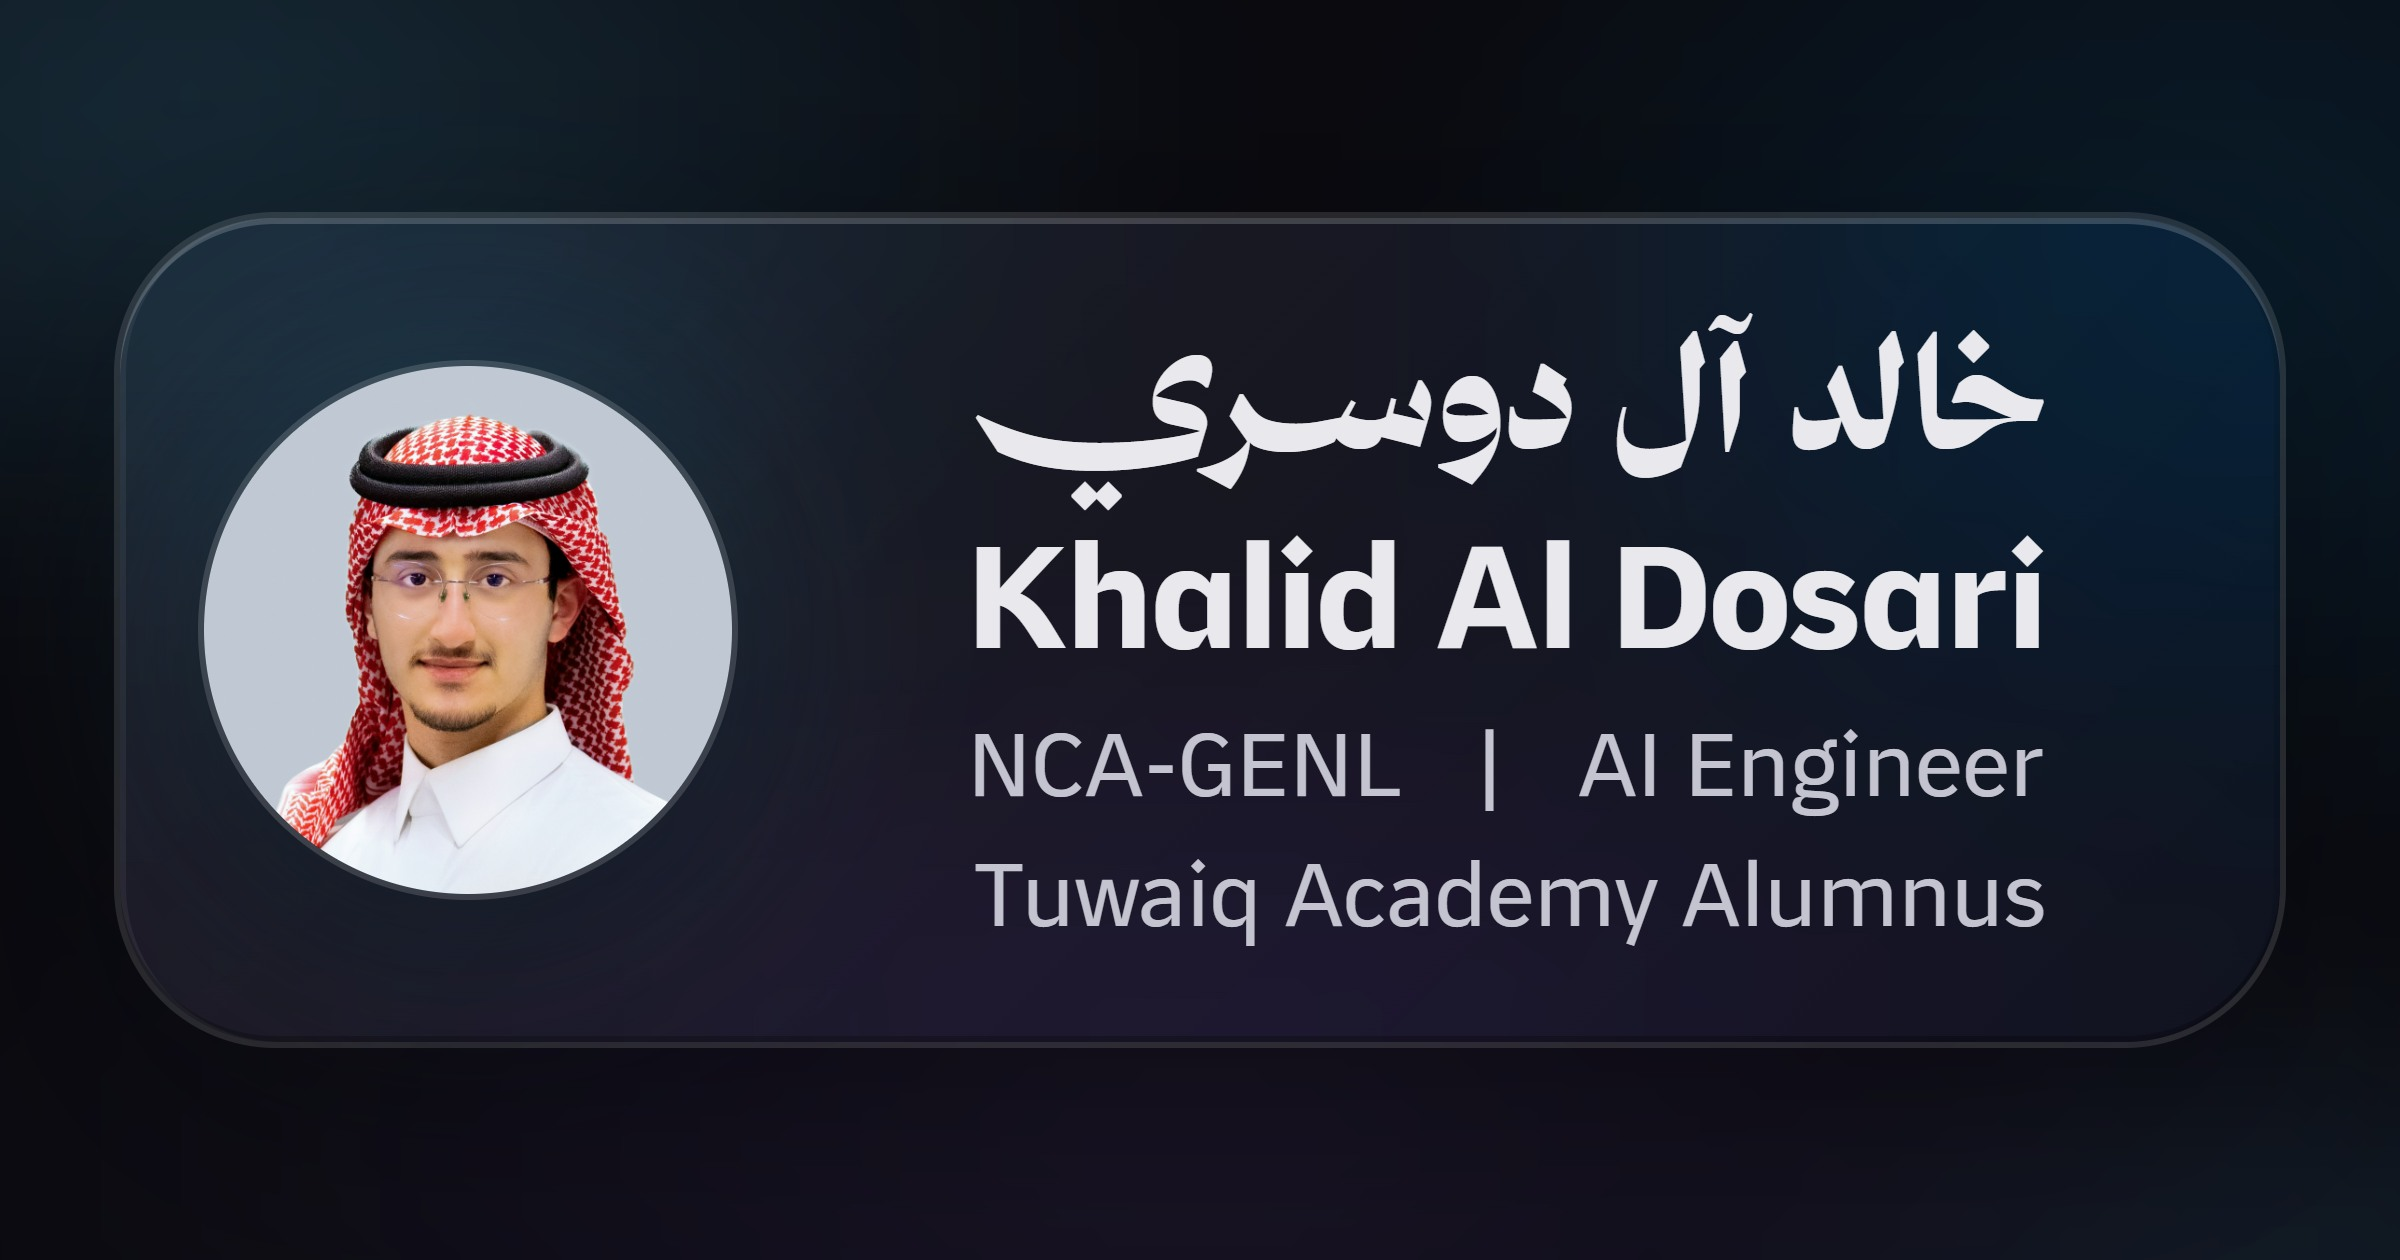
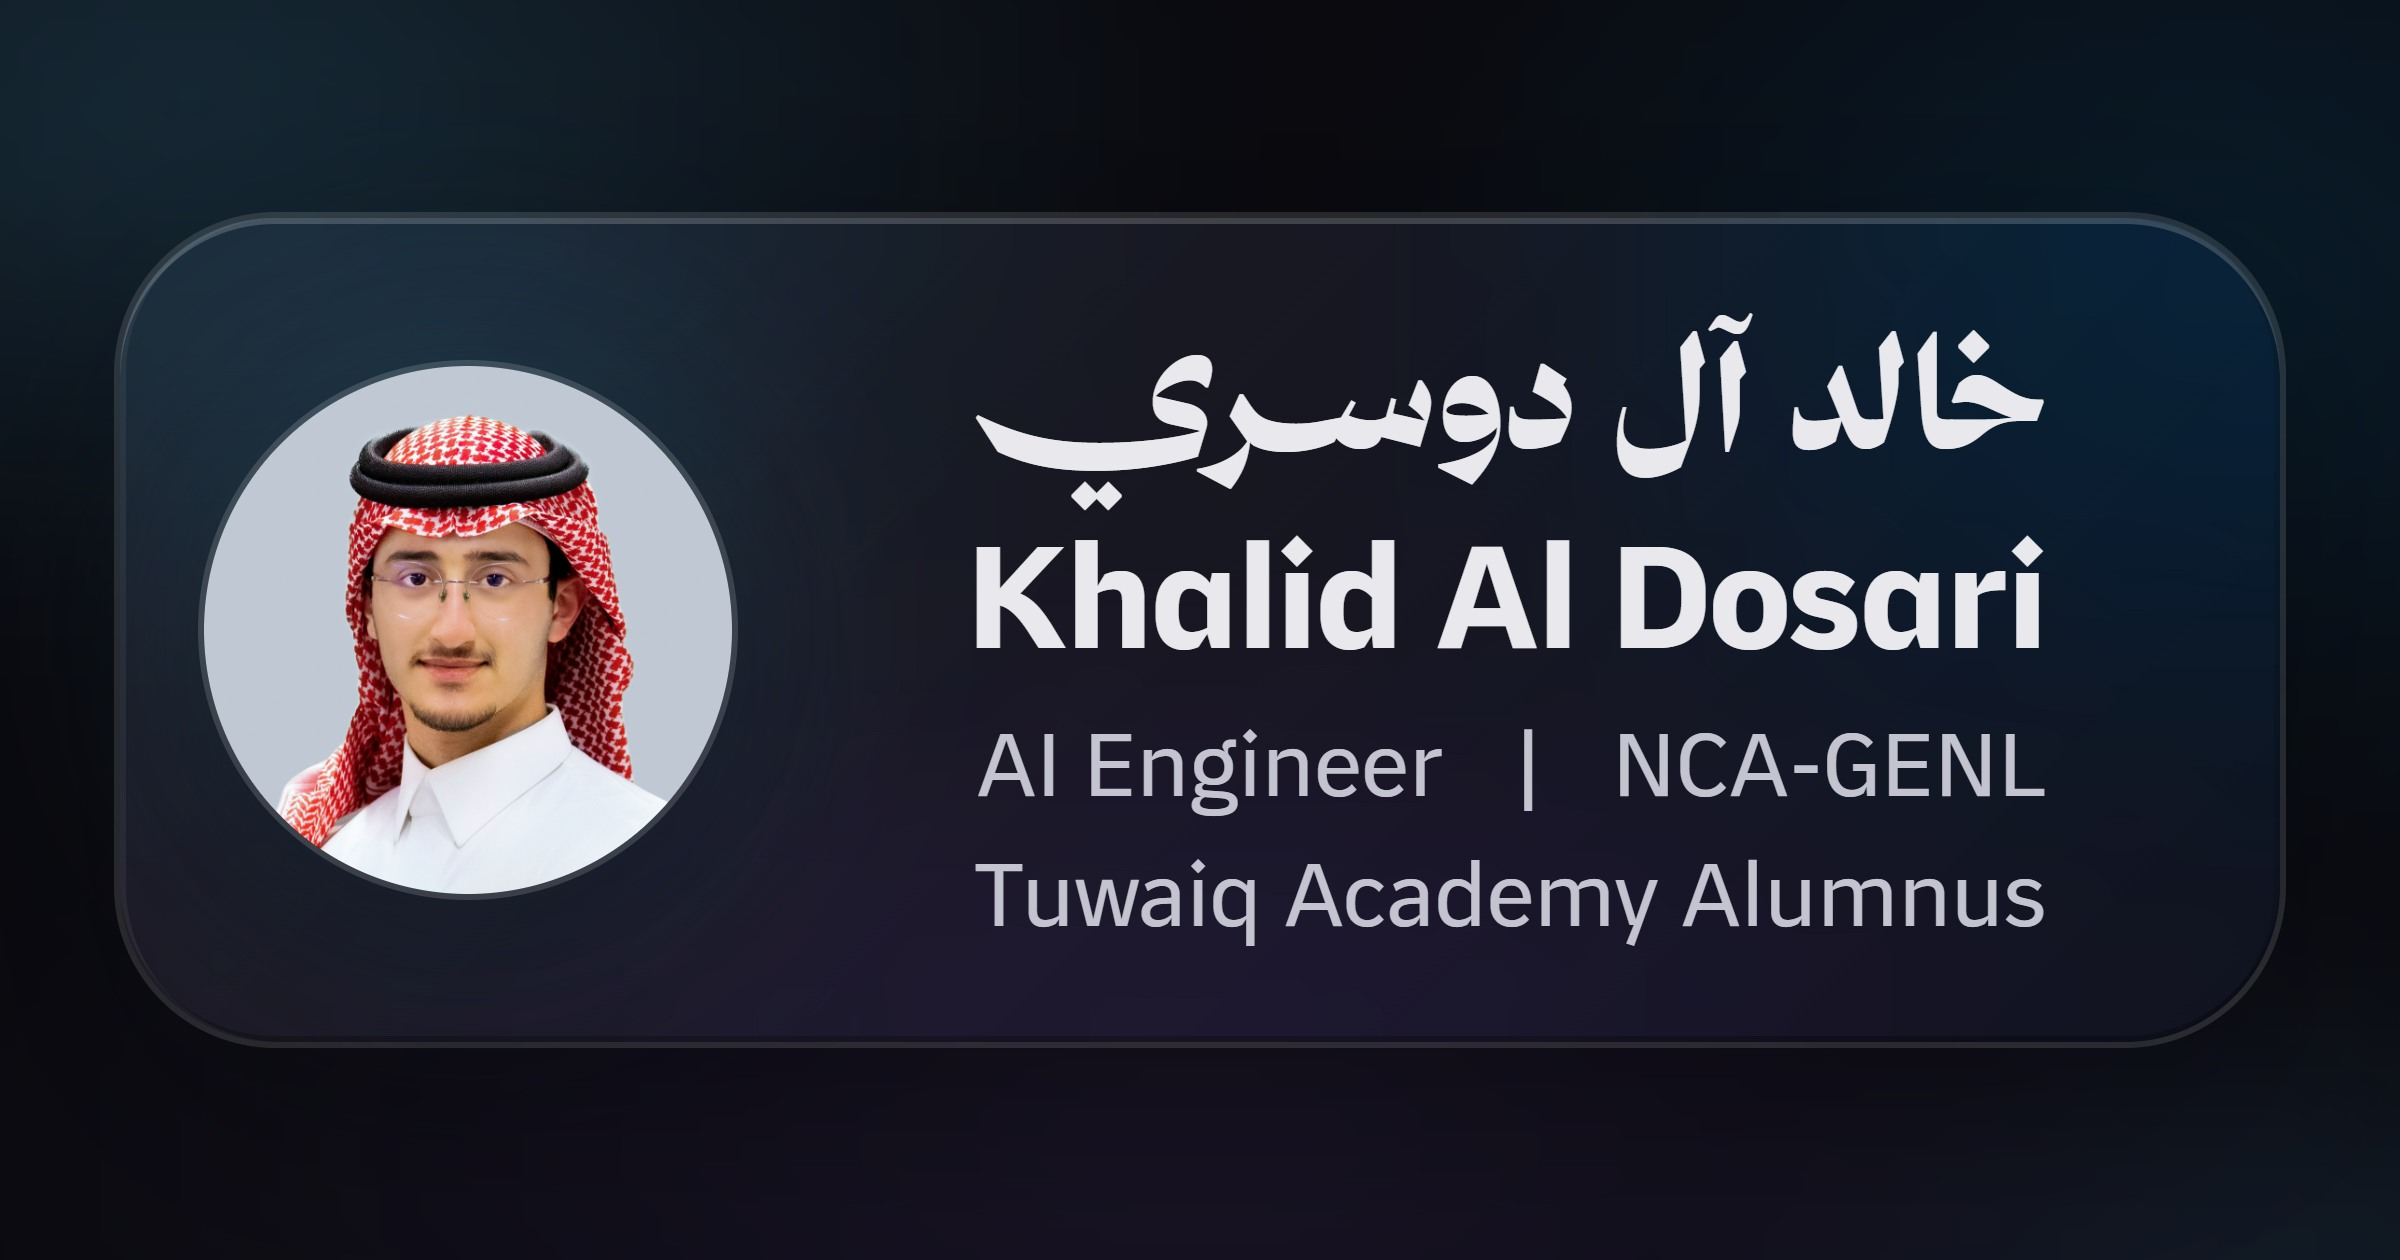
Updated og-Image and redeployed wrangler

Changed region(s): [[0.4062, 0.5571, 0.8438, 0.65]]

diff --git a/static/index.html b/static/index.html
@@ -126,7 +126,7 @@
                 <div class="profile-names">
                     <p class="name-ar" lang="ar">خالد آل دوسـري</p>
                     <h1 class="name-en" id="profile-name">Khalid Al Dosari</h1>
-                    <p class="profile-role"><span class="role-line role-title">NCA-GENL <span class="role-sep">|</span> AI Engineer</span> <span class="role-line role-alumnus">Tuwaiq Academy Alumnus</span></p>
+                    <p class="profile-role"><span class="role-line role-title">AI Engineer <span class="role-sep">|</span> NCA-GENL</span> <span class="role-line role-alumnus">Tuwaiq Academy Alumnus</span></p>
                 </div>
             </div>
             <div class="profile-actions">

diff --git a/static/styles.css b/static/styles.css
@@ -812,7 +812,11 @@ button {
 
 /* the shorter title line takes up its slack around the divider */
 .role-sep {
-    margin-inline: 0.607em;
+    margin-inline: 0.565em;
+}
+
+.role-title {
+    translate: 0.06em;
 }
 
 .role-alumnus {

diff --git a/prd/PRD.md b/prd/PRD.md
@@ -53,7 +53,7 @@ navigation, a dark glass aesthetic, bilingual touches (English + Arabic).
 
 **Owner / subject**
 - **Name:** Khalid Al Dosari — خالد آل دوســـــري
-- **Hero tagline:** `NCA-GENL | AI Engineer` / `Tuwaiq Academy Alumnus`
+- **Hero tagline:** `AI Engineer | NCA-GENL` / `Tuwaiq Academy Alumnus`
 - **Sidebar tagline (shorter):** `Data Scientist | AI Engineer`
 - **University:** Imam Mohammad bin Saud Islamic University (IMSIU), senior CS student
   (Bachelor's, Computer Science, August 2022 – present)
@@ -284,8 +284,8 @@ Header nav order: About · Education & Experience (one link, to `#education`) ·
 sideways inside the header.
 
 **Profile (`#hero`):** portrait `assets/mypic.jpeg` (hidden via `onerror` if it fails); Arabic name
-**خالد آل دوســـــري**; English name **Khalid Al Dosari** (the page `h1`); tagline **NCA-GENL |
-AI Engineer / Tuwaiq Academy Alumnus**; CTA "View My Work" → `#projects`; CV; icon buttons for
+**خالد آل دوســـــري**; English name **Khalid Al Dosari** (the page `h1`); tagline **AI Engineer |
+NCA-GENL / Tuwaiq Academy Alumnus**; CTA "View My Work" → `#projects`; CV; icon buttons for
 email, phone, LinkedIn, GitHub.
 
 The four name/tagline lines are fitted to the English name's width so they sit flush on both sides
